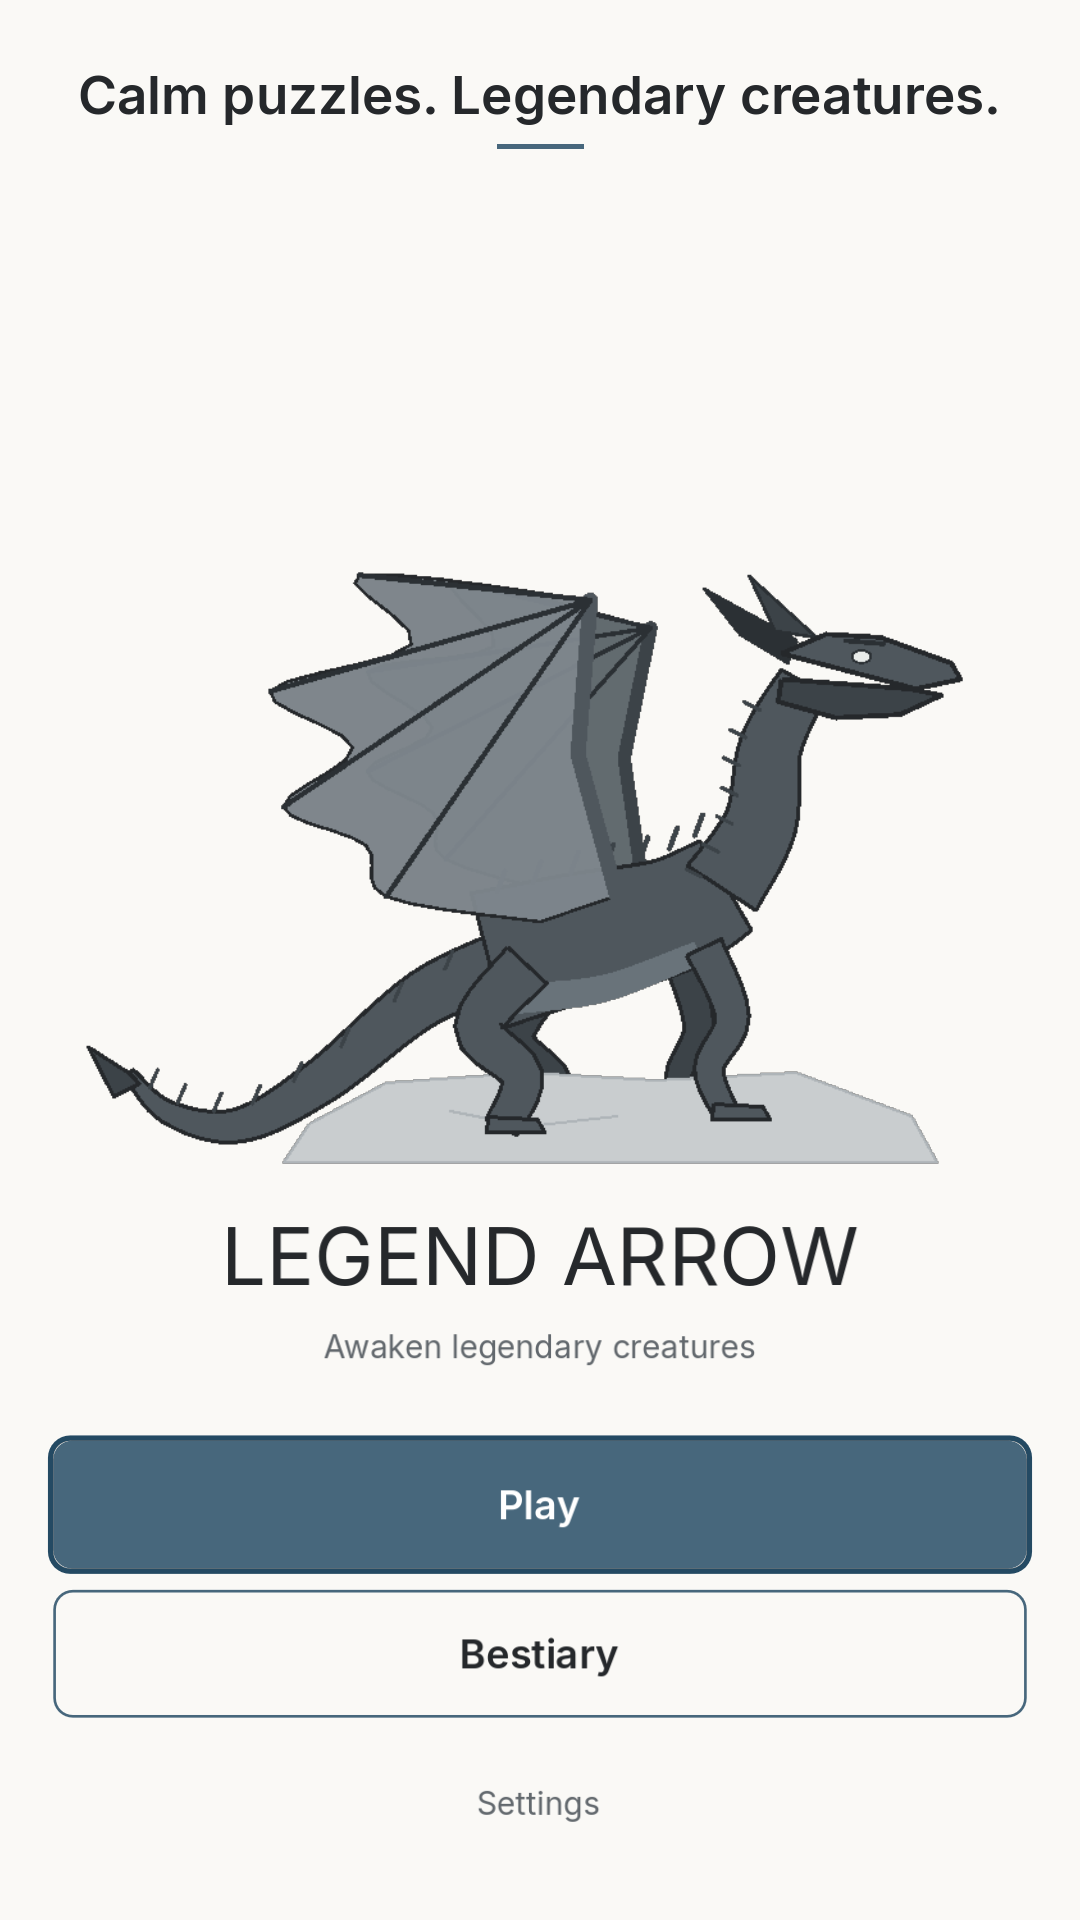
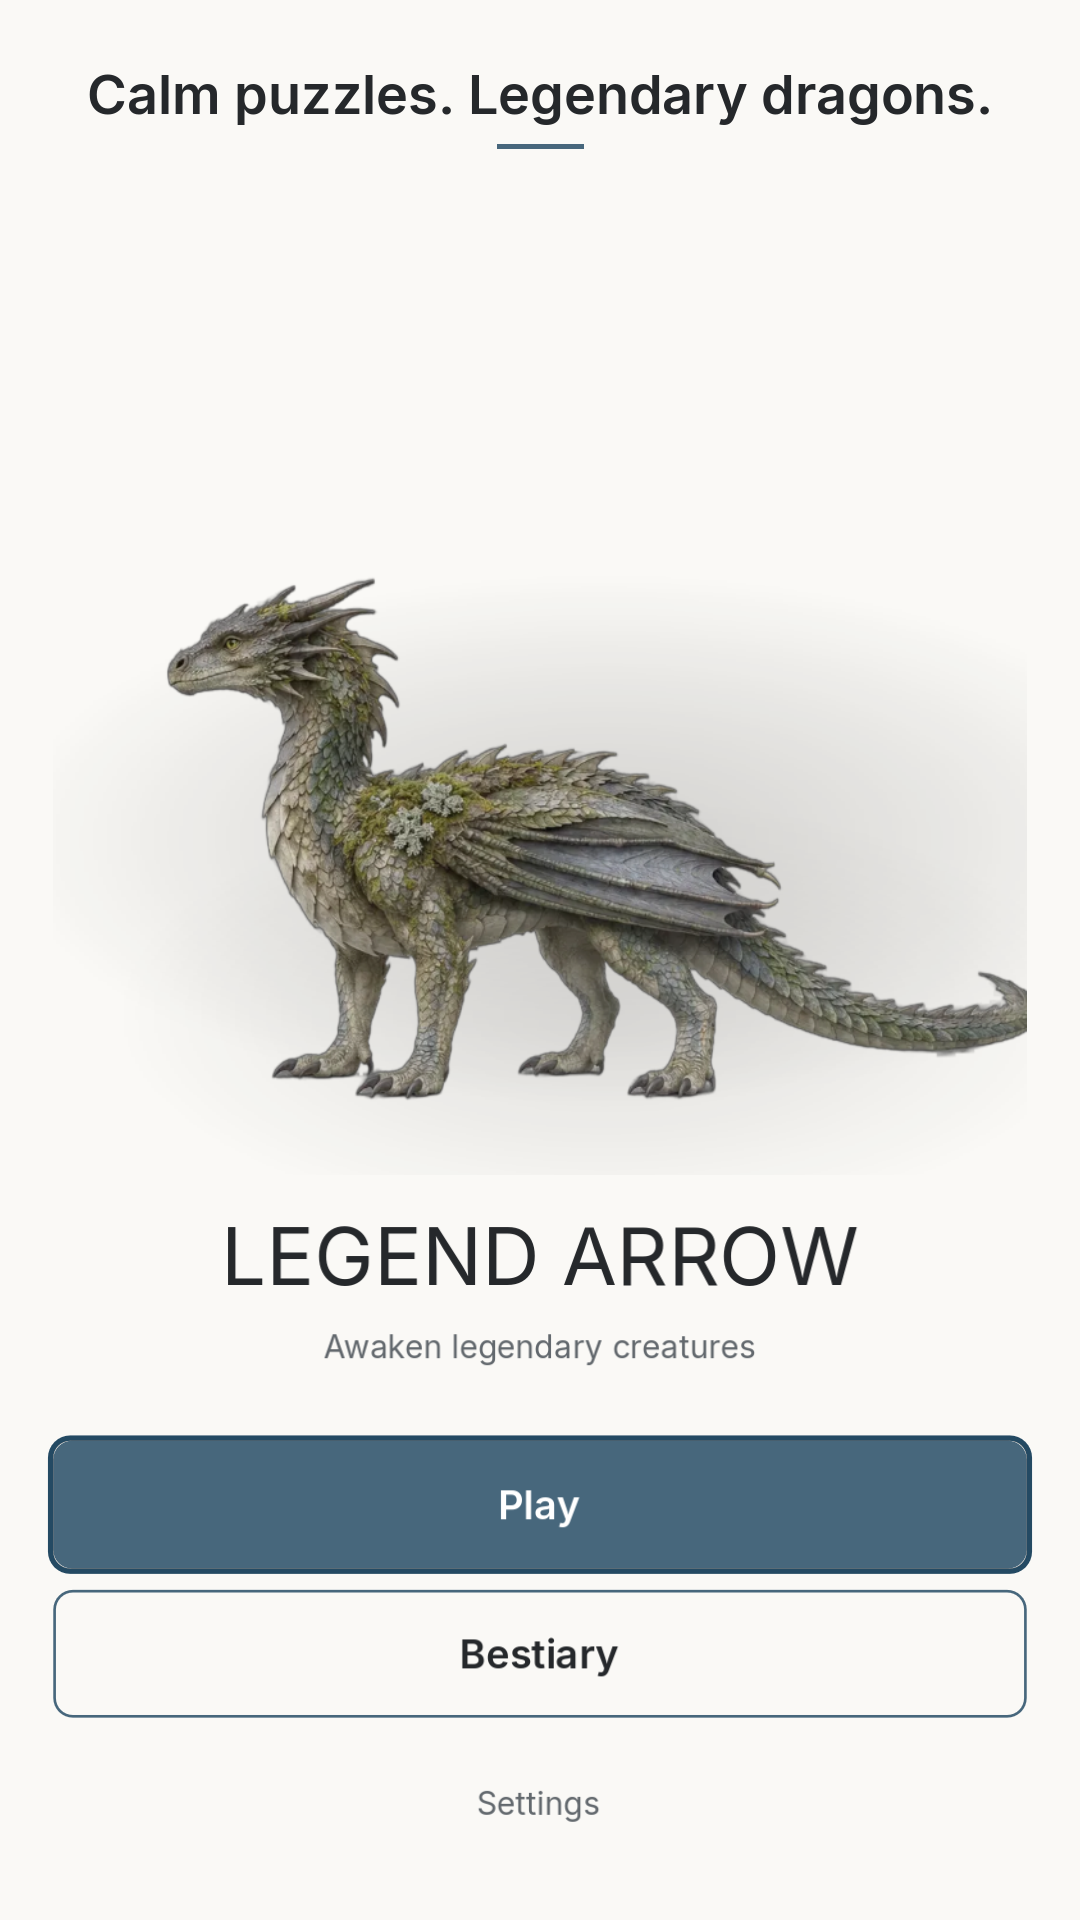
F: v0.2 Play Store graphics (photoreal dragons, results, worlds; 20 files)
- Phone: home, tutorial, puzzle with hint, results (3 stars, timer),
  awakening, worlds, bestiary, dragon detail. Tablets 7"/10": home,
  puzzle, results, awakening, bestiary.
- Captions for 100 dragons / 10 worlds; feature graphic with the photoreal
  Cloud Peaks Monarch, moved clear of the title.
- tools/store_assets.py check: PASS (20 files expected, 20 present).

Claude-Session: https://claude.ai/code/session_01MdmBALZUxiKw6YM8KUTUkH

Changed region(s): [[0.0917, 0.2812, 0.9472, 0.625], [0.0611, 0.0312, 0.9167, 0.0625]]

diff --git a/tools/store_assets.py b/tools/store_assets.py
@@ -28,18 +28,21 @@ PROFILES = {
 }
 
 CAPTIONS = {
-    "home": "Calm puzzles. Legendary creatures.",
+    "home": "Calm puzzles. Legendary dragons.",
     "tutorial": "Tap an arrow with a clear way out",
     "puzzle": "Clear the board, arrow by arrow",
-    "awakening": "Solve both puzzles to awaken it",
-    "bestiary": "Collect 12 legends in 3 realms",
-    "creature": "Every creature has its story",
+    "results": "Beat your time. Earn three stars.",
+    "awakening": "Every puzzle awakens a dragon",
+    "worlds": "10 worlds, harder as you go",
+    "bestiary": "Collect 100 dragons",
+    "creature": "Every dragon has its story",
 }
 
 PHONE = [("01_home", "home"), ("02_tutorial", "tutorial"), ("03_puzzle", "puzzle"),
-         ("04_awakening", "awakening"), ("05_bestiary", "bestiary"), ("06_creature", "creature")]
-TABLET = [("01_home", "home"), ("02_puzzle", "puzzle"), ("03_awakening", "awakening"),
-          ("04_bestiary", "bestiary")]
+         ("04_results", "results"), ("05_awakening", "awakening"), ("06_worlds", "worlds"),
+         ("07_bestiary", "bestiary"), ("08_creature", "creature")]
+TABLET = [("01_home", "home"), ("02_puzzle", "puzzle"), ("03_results", "results"),
+          ("04_awakening", "awakening"), ("05_bestiary", "bestiary")]
 
 
 def expected():

diff --git a/docs/store/play_console/README.md b/docs/store/play_console/README.md
@@ -9,17 +9,21 @@ Every file here goes in **Play Console → Grow users → Store presence → Mai
 | `03_Graphics__Phone_screenshots__01_home__1080x1920.png` | Phone screenshots, 1 | Yes (at least 2) |
 | `03_Graphics__Phone_screenshots__02_tutorial__1080x1920.png` | Phone screenshots, 2 | Yes (at least 2) |
 | `03_Graphics__Phone_screenshots__03_puzzle__1080x1920.png` | Phone screenshots, 3 | Recommended |
-| `03_Graphics__Phone_screenshots__04_awakening__1080x1920.png` | Phone screenshots, 4 | Recommended |
-| `03_Graphics__Phone_screenshots__05_bestiary__1080x1920.png` | Phone screenshots, 5 | Recommended |
-| `03_Graphics__Phone_screenshots__06_creature__1080x1920.png` | Phone screenshots, 6 | Recommended |
+| `03_Graphics__Phone_screenshots__04_results__1080x1920.png` | Phone screenshots, 4 | Recommended |
+| `03_Graphics__Phone_screenshots__05_awakening__1080x1920.png` | Phone screenshots, 5 | Recommended |
+| `03_Graphics__Phone_screenshots__06_worlds__1080x1920.png` | Phone screenshots, 6 | Recommended |
+| `03_Graphics__Phone_screenshots__07_bestiary__1080x1920.png` | Phone screenshots, 7 | Recommended |
+| `03_Graphics__Phone_screenshots__08_creature__1080x1920.png` | Phone screenshots, 8 | Recommended |
 | `04_Graphics__7-inch_tablet_screenshots__01_home__1200x2133.png` | 7-inch tablet screenshots, 1 | Optional (needed to be featured on tablets) |
 | `04_Graphics__7-inch_tablet_screenshots__02_puzzle__1200x2133.png` | 7-inch tablet screenshots, 2 | Optional |
-| `04_Graphics__7-inch_tablet_screenshots__03_awakening__1200x2133.png` | 7-inch tablet screenshots, 3 | Optional |
-| `04_Graphics__7-inch_tablet_screenshots__04_bestiary__1200x2133.png` | 7-inch tablet screenshots, 4 | Optional |
+| `04_Graphics__7-inch_tablet_screenshots__03_results__1200x2133.png` | 7-inch tablet screenshots, 3 | Optional |
+| `04_Graphics__7-inch_tablet_screenshots__04_awakening__1200x2133.png` | 7-inch tablet screenshots, 4 | Optional |
+| `04_Graphics__7-inch_tablet_screenshots__05_bestiary__1200x2133.png` | 7-inch tablet screenshots, 5 | Optional |
 | `05_Graphics__10-inch_tablet_screenshots__01_home__1440x2560.png` | 10-inch tablet screenshots, 1 | Optional (needed to be featured on tablets) |
 | `05_Graphics__10-inch_tablet_screenshots__02_puzzle__1440x2560.png` | 10-inch tablet screenshots, 2 | Optional |
-| `05_Graphics__10-inch_tablet_screenshots__03_awakening__1440x2560.png` | 10-inch tablet screenshots, 3 | Optional |
-| `05_Graphics__10-inch_tablet_screenshots__04_bestiary__1440x2560.png` | 10-inch tablet screenshots, 4 | Optional |
+| `05_Graphics__10-inch_tablet_screenshots__03_results__1440x2560.png` | 10-inch tablet screenshots, 3 | Optional |
+| `05_Graphics__10-inch_tablet_screenshots__04_awakening__1440x2560.png` | 10-inch tablet screenshots, 4 | Optional |
+| `05_Graphics__10-inch_tablet_screenshots__05_bestiary__1440x2560.png` | 10-inch tablet screenshots, 5 | Optional |
 
 Upload them in number order: Play shows screenshots in upload order.
 
@@ -33,7 +37,7 @@ Upload them in number order: Play shows screenshots in upload order.
   - 7" tablet: 10:16 tablet screen (1200×1920) + 213 px band.
   - 10" tablet: 10:16 tablet screen (1440×2304) + 256 px band.
 - **Icon**: `tools/make_icons.py`; the same drawing as the launcher icon.
-- **Feature graphic**: the awakening landscape and a creature rendered by Godot, with the title "Legend Arrow".
+- **Feature graphic**: the awakening landscape and the photoreal Cloud Peaks Monarch rendered by Godot, with the title "Legend Arrow".
 
 These v0.1 graphics are regenerated for 0.2.0 after the final dragon art is integrated (milestone F).
 
@@ -42,4 +46,4 @@ These v0.1 graphics are regenerated for 0.2.0 after the final dragon art is inte
 GODOT=/path/to/godot tools/make_store_graphics.sh   # regenerate everything and verify
 python3 tools/store_assets.py check                 # verify only
 ```
-The check confirms all 16 files exist with the exact name, are PNG, have the exact pixel size, have no alpha channel (the icon: 32-bit and fully opaque) and respect the size limits (icon ≤ 1 MB, feature graphic ≤ 15 MB, screenshots ≤ 8 MB). CI runs it on every push and publishes this folder as the `play-store-assets` artifact.
+The check confirms all 20 files exist with the exact name, are PNG, have the exact pixel size, have no alpha channel (the icon: 32-bit and fully opaque) and respect the size limits (icon ≤ 1 MB, feature graphic ≤ 15 MB, screenshots ≤ 8 MB). CI runs it on every push and publishes this folder as the `play-store-assets` artifact.
